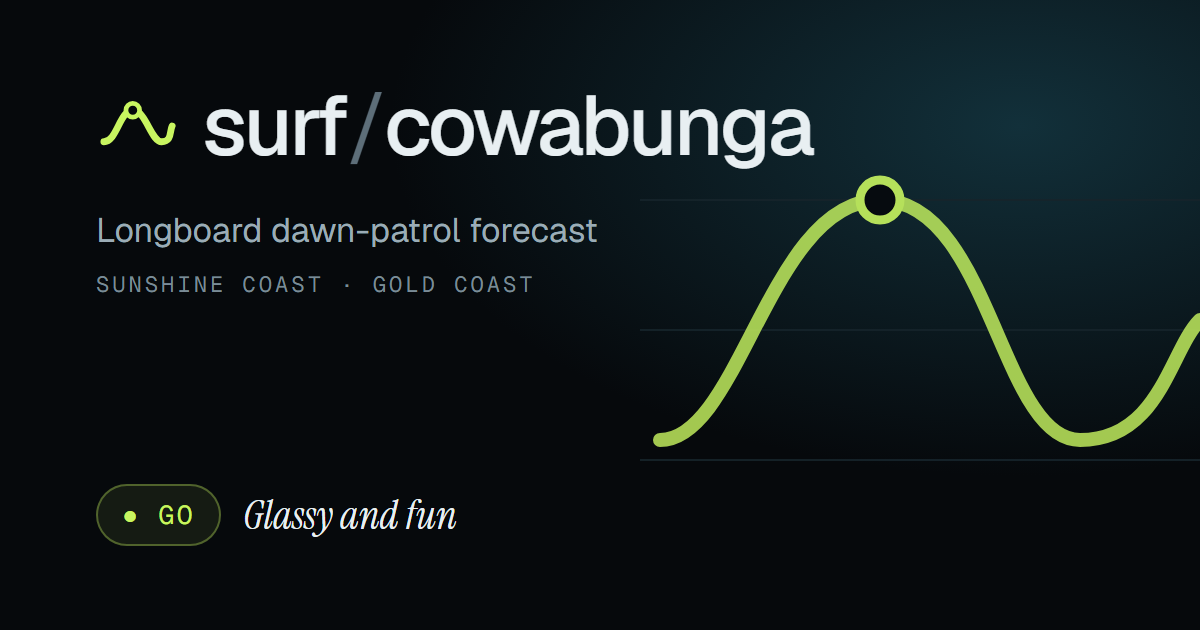
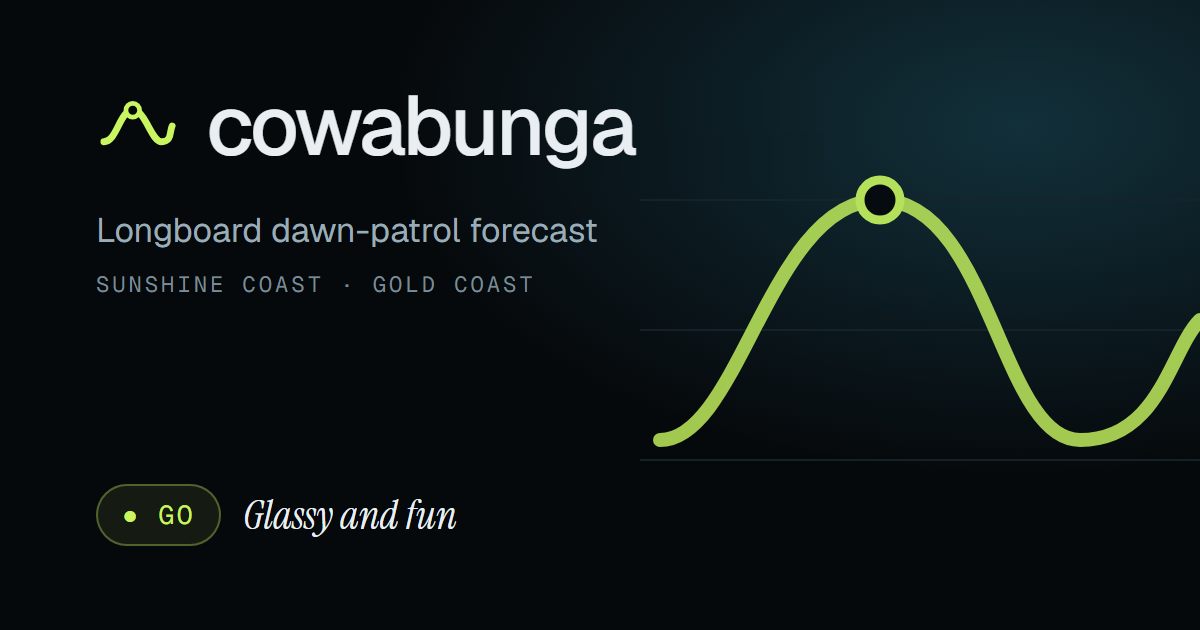
Rename to Cowabunga

Changed region(s): [[0.1542, 0.1508, 0.6783, 0.2714]]

diff --git a/index.html b/index.html
@@ -3,19 +3,19 @@
 <head>
 <meta charset="utf-8">
 <meta name="viewport" content="width=device-width, initial-scale=1, viewport-fit=cover">
-<title>Surf Cowabunga</title>
+<title>Cowabunga</title>
 <meta name="description" content="Longboard dawn-patrol forecast for the Sunshine Coast and Gold Coast.">
 <meta property="og:type" content="website">
-<meta property="og:site_name" content="Surf Cowabunga">
-<meta property="og:title" content="Surf Cowabunga">
+<meta property="og:site_name" content="Cowabunga">
+<meta property="og:title" content="Cowabunga">
 <meta property="og:description" content="Go, maybe or skip? Longboard dawn-patrol forecast for the Sunshine Coast and Gold Coast.">
 <meta property="og:url" content="https://deskjet808.github.io/surf-forecast/">
 <meta property="og:image" content="https://deskjet808.github.io/surf-forecast/icons/og.png">
 <meta property="og:image:width" content="1200">
 <meta property="og:image:height" content="630">
-<meta property="og:image:alt" content="Surf Cowabunga — a Go verdict and a morning of rated surf bars">
+<meta property="og:image:alt" content="Cowabunga — a Go verdict and a morning of rated surf bars">
 <meta name="twitter:card" content="summary_large_image">
-<meta name="twitter:title" content="Surf Cowabunga">
+<meta name="twitter:title" content="Cowabunga">
 <meta name="twitter:description" content="Go, maybe or skip? Longboard dawn-patrol forecast for the Sunshine Coast and Gold Coast.">
 <meta name="twitter:image" content="https://deskjet808.github.io/surf-forecast/icons/og.png">
 <meta name="theme-color" content="#06090c">
@@ -60,7 +60,7 @@
     <div class="brand">
       <svg class="brand-mark" viewBox="0 0 32 32" aria-hidden="true"><path d="M3 22C8 22 9 10 14 10s7 12 11 12 3-4 4-6" fill="none" stroke="currentColor" stroke-width="2.6" stroke-linecap="round"/><circle cx="14" cy="10" r="2.6" fill="var(--bg, #06090c)" stroke="currentColor" stroke-width="1.8"/></svg>
       <div>
-        <h1 aria-label="Surf Cowabunga">surf<span class="slash">/</span>cowabunga</h1>
+        <h1>cowabunga</h1>
         <p class="sub" id="updated">Loading the lineup…</p>
       </div>
     </div>
@@ -117,7 +117,7 @@
     <h2 class="foot-label">Data</h2>
     <ul id="sources" class="sources" aria-live="polite"></ul>
     <p class="fine">Forecast is a model, not a promise — always check it with your own eyes. Tides are Maritime Safety Queensland predictions (metres above lowest astronomical tide). Buoy heights are significant wave height (Hs). All times Brisbane (AEST).</p>
-    <p class="sig"><svg viewBox="0 0 32 32" aria-hidden="true"><path d="M3 22C8 22 9 10 14 10s7 12 11 12 3-4 4-6" fill="none" stroke="currentColor" stroke-width="2.6" stroke-linecap="round"/><circle cx="14" cy="10" r="2.6" fill="var(--bg, #06090c)" stroke="currentColor" stroke-width="1.8"/></svg>Surf Cowabunga · for the dawn patrol</p>
+    <p class="sig"><svg viewBox="0 0 32 32" aria-hidden="true"><path d="M3 22C8 22 9 10 14 10s7 12 11 12 3-4 4-6" fill="none" stroke="currentColor" stroke-width="2.6" stroke-linecap="round"/><circle cx="14" cy="10" r="2.6" fill="var(--bg, #06090c)" stroke="currentColor" stroke-width="1.8"/></svg>Cowabunga · for the dawn patrol</p>
   </footer>
 </main>
 

diff --git a/app.js b/app.js
@@ -1,4 +1,4 @@
-/* Surf Cowabunga — longboard dawn-patrol forecast. No build step, no dependencies.
+/* Cowabunga — longboard dawn-patrol forecast. No build step, no dependencies.
    Rating rules live in config.js. */
 (() => {
   'use strict';
@@ -558,7 +558,7 @@
     $('#hero').innerHTML = `<div class="hero-in state">
       <svg class="state-ic" viewBox="0 0 48 48" aria-hidden="true"><circle cx="24" cy="21" r="7" fill="none" stroke="currentColor" stroke-width="1.6"/><path d="M6 31c4.5 0 4.5-3 9-3s4.5 3 9 3 4.5-3 9-3 4.5 3 9 3M6 37c4.5 0 4.5-3 9-3s4.5 3 9 3 4.5-3 9-3 4.5 3 9 3" fill="none" stroke="currentColor" stroke-width="1.6" stroke-linecap="round"/><path d="M9 9l30 30" stroke="var(--big)" stroke-width="1.6" stroke-linecap="round"/></svg>
       <h3 class="state-title">${off ? "You're offline" : "Can't reach the forecast"}</h3>
-      <p class="state-body">${off ? "There's no saved forecast on this phone yet. Surf Cowabunga will load the lineup as soon as you're back online." : "The forecast servers didn't answer. It's usually brief — give it a moment and try again."}</p>
+      <p class="state-body">${off ? "There's no saved forecast on this phone yet. Cowabunga will load the lineup as soon as you're back online." : "The forecast servers didn't answer. It's usually brief — give it a moment and try again."}</p>
       <button class="btn" data-retry>Try again</button>
     </div>`;
     $('#ranking').innerHTML = '';

diff --git a/styles.css b/styles.css
@@ -94,7 +94,6 @@ h1, h2, h3 { margin: 0; font-weight: 500; }
 .brand > div { min-width: 0; }
 .brand-mark { width: 30px; height: 30px; color: var(--acc); flex: none; }
 .brand h1 { font: 500 25px/1 var(--sans); letter-spacing: -0.025em; }
-.brand h1 .slash { color: var(--tx-3); margin: 0 .04em; font-weight: 400; }
 .sub { display: flex; align-items: center; gap: 6px; margin: 5px 0 0; color: var(--tx-3); font: 400 11px/1 var(--mono); letter-spacing: .02em; min-height: 14px; }
 .sub > span { overflow: hidden; white-space: nowrap; text-overflow: ellipsis; }
 .sub .sd { display: none; width: 6px; height: 6px; border-radius: 50%; flex: none; }

diff --git a/sw.js b/sw.js
@@ -1,6 +1,6 @@
-// Surf Cowabunga service worker: caches the app shell so it opens instantly and offline.
+// Cowabunga service worker: caches the app shell so it opens instantly and offline.
 // Forecast data is cached by the app itself (localStorage), so API calls pass through.
-const CACHE = 'dawnie-v9';
+const CACHE = 'dawnie-v10';
 const SHELL = ['./', 'index.html', 'styles.css', 'config.js', 'guides.js', 'app.js', 'manifest.webmanifest', 'icons/icon.svg', 'icons/apple-touch-icon.png'];
 const NET_TIMEOUT = 3000; // weak beach signal: fall back to the cached shell after 3 s
 

diff --git a/README.md b/README.md
@@ -1,4 +1,4 @@
-# Surf Cowabunga
+# Cowabunga
 
 A longboard dawn-patrol surf forecast for the Sunshine Coast and Gold Coast (Queensland). It's a static page with no build step, hosted on GitHub Pages.
 
